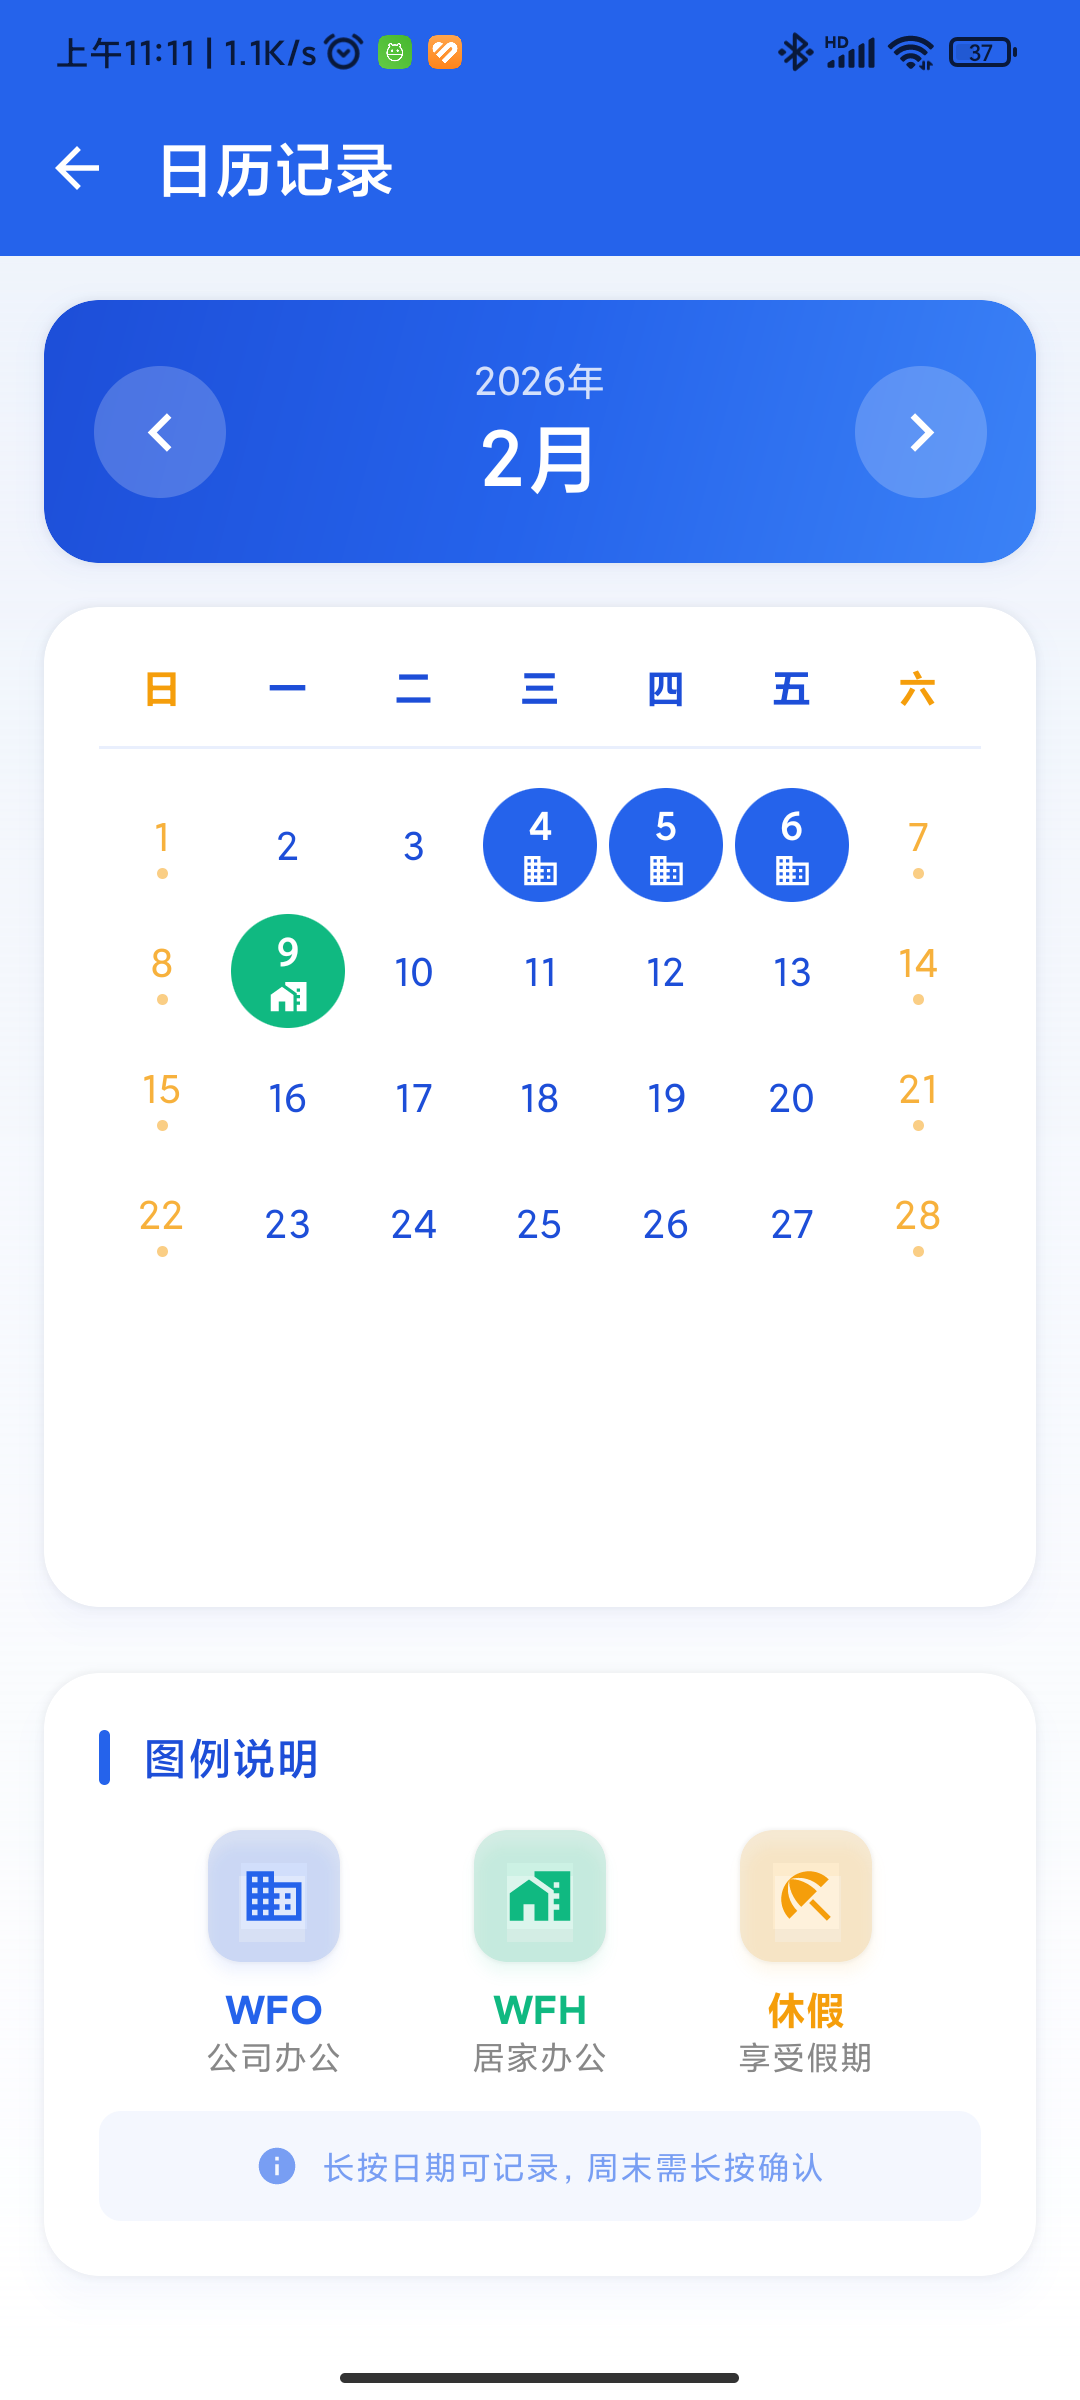
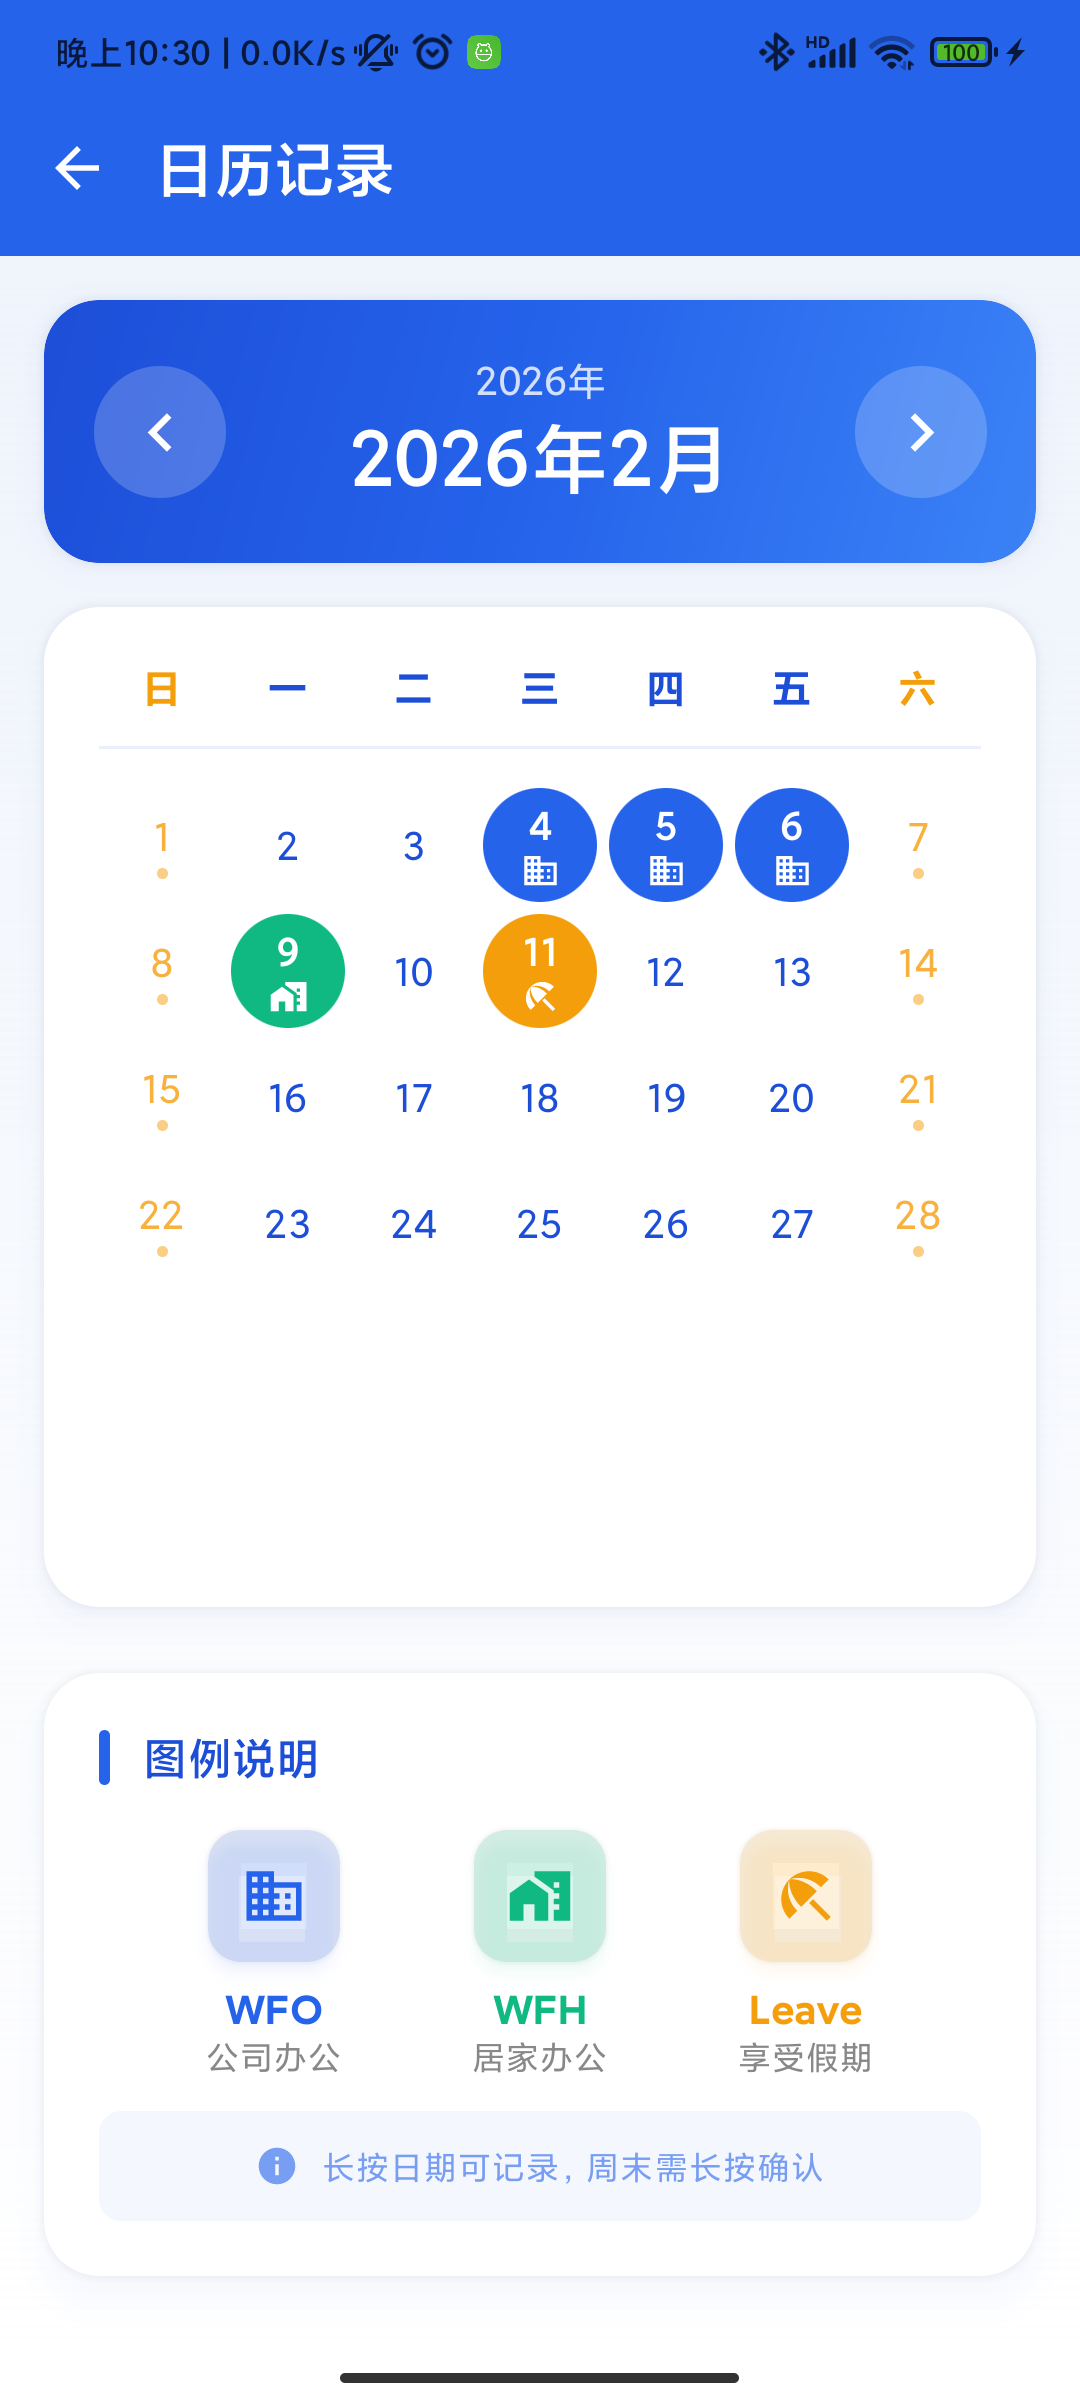
docs: 更新截图脚本和文档内容
更新截图脚本以支持选择性截图，并优化README和字符串资源中的文案

diff --git a/README.md b/README.md
@@ -26,7 +26,7 @@
 
 ### 📝 灵活记录方式
 - **自动记录**：基于位置自动判断 WFO/WFH
-- **手动记录**：支持任意日期手动补录 WFO/WFH/休假
+- **手动记录**：支持任意日期手动补录 WFO/WFH/LEAVE
 - **长按切换**：长按今日状态卡片快速切换工作模式
 
 ### 📊 出勤统计
